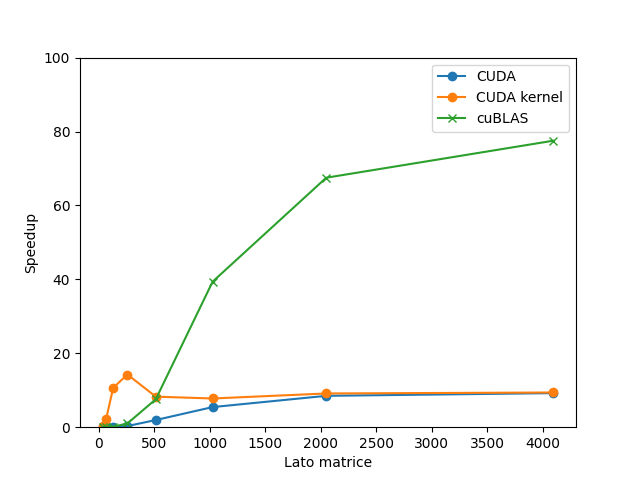
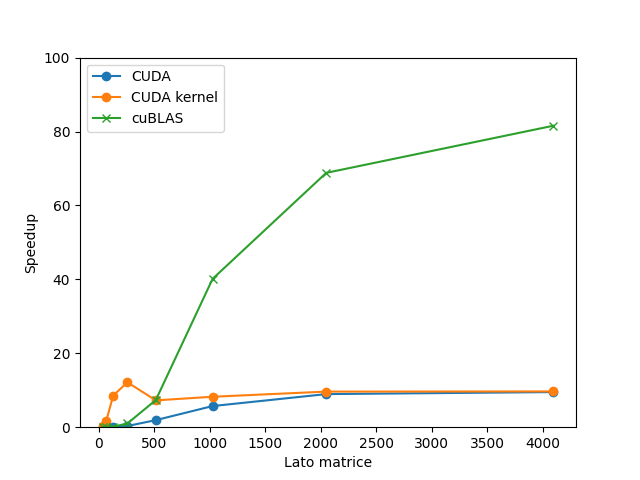
Update docs

diff --git a/docs/report-analysis.tex b/docs/report-analysis.tex
@@ -1,31 +1,44 @@
 \section{Analisi}
 
-\subsection{Script e Configurazione dei Test}
+In questa sezione verranno presentati e analizzati i risultati di benchmark.
 
-Per gestire l'esecuzione di un vasto numero di test con configurazioni eterogenee, è stato implementato un processo automatizzato orchestrato dallo script \texttt{scripts/run.sh}. La sua esecuzione può essere suddivisa nelle seguenti fasi:
+Purtroppo, a causa di problemi tecnici con il cluster in dotazione, non è stato possibile valutare in maniera significativa gli algoritmi. In particolare, la funzione OpenMPI usata per creare la griglia di processi\footnote{\url{https://docs.open-mpi.org/en/v5.0.x/man-openmpi/man3/MPI_Cart_create.3.html}} potrebbe fallire arbitrariamente causando la chiusura forzata dell'eseguibile. Sperimentazioni ausiliarie hanno portato eventualmente sempre allo stesso errore, il che fa presagire possibili difetti nella versione della libreria installata.
+
+È stato deciso di eseguire dei test locali su una singola macchina, ovviamente non indicativi delle prestazioni reali ma utili comunque a ricavare qualche spunto di riflessione.
+
+\subsection{Configurazione dei test}
+
+Per gestire l'esecuzione di un vasto numero di test con configurazioni eterogenee, sono stati implementati dei processi automatizzati tramite script.
+
+\subsubsection{Locale}
+Per eseguire i benchmark in locale, viene usato un semplice script che esegue sequenzialmente diversi test specificati, aggrega i risultati ottenuti e lancia uno script python per generare i grafici.
+La macchina usata per eseguire i benchmark presenta:
+\begin{itemize}
+    \item CPU AMD Ryzen 5 7600;
+    \item GPU NVIDIA GTX 1050Ti;
+    \item 32 GB di RAM.
+\end{itemize}
+
+\subsubsection{Cluster}
+Lanciare un'eseguibile sul cluster richiede maggiore pianificazione in quanto bisogna inviare una richiesta di \textit{job} tramite \textit{Slurm}, un sistema di gestione open source\footnote{\url{https://slurm.schedmd.com/overview.html}}. Lo script creato genera dinamicamente dei file batch a partire da configurazioni salvate in file di testo e richiede che vengano eseguiti. Nello specifico, si articola nelle seguenti fasi:
 
 \begin{enumerate}
-    \item \textbf{Inizializzazione e Pulizia:} La prima azione dello script è la preparazione dell'ambiente di esecuzione. Vengono rimossi i risultati di esecuzioni precedenti eliminando il contenuto delle directory \texttt{logs/ csv/ plots/ profiling/ bin/}, se in caso queste non dovessero esistere verranno create. Questo garantisce che ogni esecuzione parta da uno stato pulito e che i risultati non vengano contaminati da test precedenti.
+    \item \textbf{Inizializzazione} - viene preparato l'ambiente di esecuzione creando eventuali directory necessarie e rimuovendo i risultati di esecuzioni precedenti. Questo garantisce che ogni esecuzione parta da uno stato pulito e che i risultati non vengano contaminati da test precedenti.
 
-    \item \textbf{Compilazione:} Viene compilato il codice sorgente presente nella directory \texttt{src/} usando \texttt{nvcc}. L'eseguibile risultante, \texttt{bin/main.out}, viene così aggiornato all'ultima versione del codice prima dell'avvio dei test.
+    \item \textbf{Iterazione sui file di configurazione} - vengono letti tutti i file csv presenti nella directory \texttt{tests/}, ciascuno dei quali definisce una famiglia di test e specifica i parametri per una singola esecuzione.
 
-    \item \textbf{Iterazione sui File di Configurazione:} Lo script itera su tutti i file con estensione \texttt{.csv} presenti nella directory \texttt{tests/}. Ciascun file definisce una famiglia di test; al suo interno, ogni riga (esclusa l'intestazione) specifica i parametri per una singola esecuzione.
+    \item \textbf{Sottomissione dei job} - per ogni test da eseguire, lo script
+          \begin{enumerate}
+              \item esegue il parsing dei parametri (dimensioni della matrice, numero di processi, ...) estraendoli riga per riga;
+              \item genera dinamicamente uno script di sottomissione Slurm contenente le direttive \texttt{\#SBATCH} necessarie per richiedere le risorse al cluster (nodi, GPU, file di output, ...);
+              \item sottomette lo script creato al gestore di code tramite il comando \texttt{sbatch};
+              \item aggiunge l'id del job a una lista di dipendenze che sarà utilizzata nella fase finale.
+          \end{enumerate}
 
-    \item \textbf{Generazione e Sottomissione dei Job:} Per ogni riga di un file di configurazione, che rappresenta un singolo test, lo script esegue i seguenti passaggi:
-          \begin{itemize}
-              \item \textbf{Parsing dei Parametri:} I valori per \texttt{matrix\_size}, \texttt{n\_proc}, \texttt{n\_gpu}, \texttt{tile\_width}, \texttt{grid\_width} e \texttt{grid\_height} vengono estratti dalla riga corrente.
-              \item \textbf{Creazione dello Script SLURM:} Viene generato dinamicamente uno script di sottomissione SLURM. Questo script contiene le direttive \texttt{\#SBATCH} necessarie per richiedere le risorse al cluster (nodi, task, GPU per task) e definire i file di output e di errore. Il comando di esecuzione principale è incapsulato da \texttt{nsys profile} per la profilazione, e l'eseguibile \texttt{bin/main.out} viene lanciato con i parametri specifici del test.
-              \item \textbf{Sottomissione del Job:} Lo script SLURM appena creato viene sottomesso al gestore di code tramite il comando \texttt{sbatch}. L'ID del job restituito da SLURM viene catturato e memorizzato.
-              \item \textbf{Gestione delle Dipendenze:} L'ID del job viene aggiunto a una lista di dipendenze che sarà utilizzata nella fase finale.
-          \end{itemize}
-
-    \item \textbf{Job di Analisi e Plotting:} Una volta che tutti i job di calcolo sono stati sottomessi, lo script genera un ultimo job SLURM. Questo job ha una dipendenza di tipo \texttt{afterok} da tutti i job sottomessi in precedenza. Ciò significa che verrà eseguito solo dopo che tutti i test di calcolo saranno terminati con successo. Il compito di questo job finale è eseguire lo script Python \texttt{scripts/plots.py}, che si occupa di aggregare i dati dai file \texttt{.csv} generati e di creare i grafici di performance.
+    \item \textbf{Job di analisi e plotting} - genera un ultimo job con una dipendenza di tipo \texttt{afterok} da tutti quelli sottomessi in precedenza, per eseguirlo solo dopo che tutti i test saranno terminati con successo. Il compito di questo job finale è aggregare i dati dei file csv generati ed eseguire uno script python per creare i grafici delle performance.
 \end{enumerate}
 
 \subsection{Analisi delle misurazioni}
-Purtroppo, a causa di problemi tecnici con la versione di OpenMPI presente sul cluster, non è stato possibile valutare in maniera significativa il programma. In particolare, la funzione usata per creare la griglia di processi\footnote{\url{https://docs.open-mpi.org/en/v5.0.x/man-openmpi/man3/MPI_Cart_create.3.html}} potrebbe fallire arbitrariamente causando la chiusura forzata dell'eseguibile. Sperimentazioni ausiliarie hanno portato eventualmente sempre allo stesso errore, il che fa presagire qualche problema in quella versione della libreria.
-
-È stato deciso di eseguire dei test locali su una singola macchina, che ovviamente non saranno indicativi delle prestazioni reali ma utili comunque a ricavare qualche spunto di riflessione.
 Sono stati eseguiti i seguenti test:
 \begin{enumerate}
     \item al crescere del numero di processi e threads, con dimensione fissata
@@ -39,7 +52,7 @@ Sono stati eseguiti i seguenti test:
     \item al crescere del numero di processi, a parità di thread (1024) e dimensione del problema per thread.
 \end{enumerate}
 
-\begin{table}[h]
+\begin{table}[H]
     \centering
     \begin{tabular}{cc}
         \hline
@@ -57,113 +70,105 @@ Sono stati eseguiti i seguenti test:
     \caption{Tempi di esecuzione algoritmo sequenziale}
 \end{table}
 
-\begin{table}[h]
-    \centering
-    \begin{tabular}{cc}
-        \hline
-        \textbf{Matrice}    & \textbf{Tempo (s)} \\ \hline
-        $16   \times 16   $ & 0.000012           \\
-        $32   \times 32   $ & 0.000087           \\
-        $64   \times 64   $ & 0.000573           \\
-        $128  \times 128  $ & 0.004766           \\
-        $256  \times 256  $ & 0.036135           \\
-        $512  \times 512  $ & 0.284944           \\
-        $1024 \times 1024 $ & 2.281789           \\
-        $2048 \times 2048 $ & 18.509902          \\
-        $4096 \times 4096 $ & 151.839314         \\ \hline
-    \end{tabular}
-    \caption{Tempi di esecuzione cuBLAS}
-\end{table}
-
-\begin{table}[h]
+\begin{table}[H]
     \centering
     \begin{tabular}{cccccc}
         \hline
-        \textbf{Matrice}    & \textbf{Processi} & \textbf{Thread} & \textbf{Tempo (s)} & \textbf{Speedup} & \textbf{Efficienza} \\ \hline
-        $16   \times 16   $ & 4                 & 1024            & 0.000012           & 50               & 0.001               \\
-        $32   \times 32   $ & 4                 & 1024            & 0.000012           &                  & 0.001               \\
-        $64   \times 64   $ & 4                 & 1024            & 0.000012           &                  & 0.001               \\
-        $128  \times 128  $ & 4                 & 1024            & 0.000012           &                  & 0.001               \\
-        $256  \times 256  $ & 4                 & 1024            & 0.000012           &                  & 0.001               \\
-        $512  \times 512  $ & 4                 & 1024            & 0.000012           &                  & 0.001               \\
-        $1024 \times 1024 $ & 4                 & 1024            & 0.000012           &                  & 0.001               \\
-        $2048 \times 2048 $ & 4                 & 1024            & 0.000012           &                  & 0.001               \\
-        $4096 \times 4096 $ & 4                 & 1024            & 0.000012           &                  & 0.001               \\ \hline
+        \textbf{Matrice}   & \textbf{Processi} & \textbf{Thread} & \textbf{Tempo (s)} & \textbf{Speedup} & \textbf{Efficienza} \\
+        \hline
+        $32 \times 32$     & 4                 & 1024            & 0.111423           & 0.000646         & 0.000001            \\
+        $64 \times 64$     & 4                 & 1024            & 0.111543           & 0.006562         & 0.000006            \\
+        $128 \times 128$   & 4                 & 1024            & 0.107687           & 0.044731         & 0.000043            \\
+        $256 \times 256$   & 4                 & 1024            & 0.112906           & 0.320620         & 0.000313            \\
+        $512 \times 512$   & 4                 & 1024            & 0.151131           & 1.912400         & 0.001867            \\
+        $1024 \times 1024$ & 4                 & 1024            & 0.403438           & 5.720774         & 0.005586            \\
+        $2048 \times 2048$ & 4                 & 1024            & 2.104707           & 8.955829         & 0.008745            \\
+        $4096 \times 4096$ & 4                 & 1024            & 16.102605          & 9.502196         & 0.009279            \\
+        \hline
     \end{tabular}
     \caption{Metriche test 1a}
 \end{table}
 
-\begin{table}[h]
+\begin{table}[H]
     \centering
     \begin{tabular}{cccccc}
         \hline
-        \textbf{Matrice}   & \textbf{Processi} & \textbf{Thread} & \textbf{Tempo (s)} & \textbf{Speedup} & \textbf{Efficienza} \\ \hline
-        $2048 \times 2048$ & 2                 & 1024            & 0.000012           & 50               & 0.001               \\
-        $2048 \times 2048$ & 4                 & 1024            & 0.000012           &                  & 0.001               \\
-        $2048 \times 2048$ & 8                 & 1024            & 0.000012           &                  & 0.001               \\
-        $2048 \times 2048$ & 16                & 1024            & 0.000012           &                  & 0.001               \\ \hline
+        \textbf{Matrice}   & \textbf{Processi} & \textbf{Thread} & \textbf{Tempo (s)} & \textbf{Speedup} & \textbf{Efficienza} \\
+        \hline
+        $2048 \times 2048$ & 2                 & 1024            & 2.149681           & 8.768461         & 0.008562            \\
+        $2048 \times 2048$ & 4                 & 1024            & 2.112711           & 8.921899         & 0.008712            \\
+        $2048 \times 2048$ & 8                 & 1024            & 2.233489           & 8.439439         & 0.008241            \\
+        $2048 \times 2048$ & 16                & 1024            & 2.400357           & 7.852746         & 0.007668            \\
+        \hline
     \end{tabular}
     \caption{Metriche test 1b}
 \end{table}
 
-\begin{table}[h]
+\begin{table}[H]
     \centering
     \begin{tabular}{cccccc}
         \hline
-        \textbf{Matrice}   & \textbf{Processi} & \textbf{Thread} & \textbf{Tempo (s)} & \textbf{Speedup} & \textbf{Efficienza} \\ \hline
-        $2048 \times 2048$ & 4                 & 256             & 0.000012           & 50               & 0.001               \\
-        $2048 \times 2048$ & 4                 & 1024            & 0.000012           &                  & 0.001               \\
-        $2048 \times 2048$ & 4                 & 4096            & 0.000012           &                  & 0.001               \\
-        $2048 \times 2048$ & 4                 & 16384           & 0.000012           &                  & 0.001               \\ \hline
+        \textbf{Matrice}   & \textbf{Processi} & \textbf{Thread} & \textbf{Tempo (s)} & \textbf{Speedup} & \textbf{Efficienza} \\
+        \hline
+        $2048 \times 2048$ & 4                 & 16              & 86.549383          & 0.217787         & 0.013611            \\
+        $2048 \times 2048$ & 4                 & 64              & 14.889047          & 1.265990         & 0.019781            \\
+        $2048 \times 2048$ & 4                 & 256             & 3.294723           & 5.721086         & 0.022347            \\
+        $2048 \times 2048$ & 4                 & 1024            & 2.115566           & 8.909859         & 0.008701            \\
+        $2048 \times 2048$ & 4                 & 4096            & 0.634481           & 29.708369        & 0.007253            \\
+        $2048 \times 2048$ & 4                 & 16384           & 0.487987           & 38.626840        & 0.002357            \\
+        $2048 \times 2048$ & 4                 & 65536           & 0.457740           & 41.179263        & 0.000628            \\
+
+        \hline
     \end{tabular}
     \caption{Metriche test 1c}
 \end{table}
 
-\begin{table}[h]
+\begin{table}[H]
     \centering
     \begin{tabular}{cccccc}
         \hline
-        \textbf{Matrice}    & \textbf{Processi} & \textbf{Thread} & \textbf{Tempo (s)} & \textbf{Speedup} & \textbf{Efficienza} \\ \hline
-        $1024 \times 1024 $ & 1                 & 1024            & 0.287              & 50               & 0.001               \\
-        $2048 \times 2048 $ & 4                 & 1024            & 2.211              & 50               & 0.001               \\
-        $4096 \times 4096 $ & 16                & 1024            & 16.459             &                  & 0.001               \\ \hline
-        %                     &                   &                    &                  &                     \\ \hline
-        % \textbf{Matrice}    & \textbf{Processi} & \textbf{Tempo (s)} & \textbf{Speedup} & \textbf{Efficienza} \\ \hline
-        % $1024 \times 1024 $ & 1                 & 0.040 s            & 50               & 0.001               \\
-        % $2048 \times 2048 $ & 4                 & 0.278 s            & 50               & 0.001               \\
-        % $4096 \times 4096 $ & 16                & 1.986 s            &                  & 0.001               \\ \hline
+        \textbf{Matrice}   & \textbf{Processi} & \textbf{Thread} & \textbf{Tempo (s)} & \textbf{Speedup} & \textbf{Efficienza} \\
+        \hline
+        $1024 \times 1024$ & 1                 & 1024            & 0.315246           & 7.321196         & 0.007149            \\
+        $2048 \times 2048$ & 4                 & 1024            & 2.124641           & 8.871802         & 0.008663            \\
+        $4096 \times 4096$ & 16                & 1024            & 16.293719          & 9.390741         & 0.009170            \\
+        \hline
     \end{tabular}
     \caption{Metriche test b}
 \end{table}
 
-\begin{table}[h]
+\begin{table}[H]
     \centering
     \begin{tabular}{cccccc}
         \hline
-        \textbf{Matrice}    & \textbf{Processi} & \textbf{Thread} & \textbf{Tempo (s)} & \textbf{Speedup} & \textbf{Efficienza} \\ \hline
-        $64 \times 64 $     & 4                 & 16              & 0.109685           & 50               & 0.001               \\
-        $128 \times 128 $   & 4                 & 64              & 0.114456           & 50               & 0.001               \\
-        $256 \times 256 $   & 4                 & 256             & 0.114456           & 50               & 0.001               \\
-        $512 \times 512 $   & 4                 & 1024            & 0.114456           & 50               & 0.001               \\
-        $1024 \times 1024 $ & 4                 & 4096            & 0.114456           & 50               & 0.001               \\
-        $2048 \times 2048 $ & 4                 & 16384           & 0.111614           &                  & 0.001               \\ \hline
+        \textbf{Matrice}   & \textbf{Processi} & \textbf{Thread} & \textbf{Tempo (s)} & \textbf{Speedup} & \textbf{Efficienza} \\
+        \hline
+        $64 \times 64$     & 4                 & 16              & 0.107755           & 0.006793         & 0.000424            \\
+        $128 \times 128$   & 4                 & 64              & 0.110345           & 0.043653         & 0.000682            \\
+        $256 \times 256$   & 4                 & 256             & 0.113403           & 0.319215         & 0.001246            \\
+        $512 \times 512$   & 4                 & 1024            & 0.144730           & 1.996980         & 0.001950            \\
+        $1024 \times 1024$ & 4                 & 4096            & 0.191247           & 12.068048        & 0.002946            \\
+        $2048 \times 2048$ & 4                 & 16384           & 0.507543           & 37.138520        & 0.002266            \\
+        \hline
     \end{tabular}
     \caption{Metriche test c}
 \end{table}
 
-\begin{table}[h]
+\begin{table}[H]
     \centering
     \begin{tabular}{cccccc}
         \hline
-        \textbf{Matrice}    & \textbf{Processi} & \textbf{Thread} & \textbf{Tempo (s)} & \textbf{Speedup} & \textbf{Efficienza} \\ \hline
-        $1024 \times 1024 $ & 1                 & 1024            & 0.109685           & 50               & 0.001               \\
-        $2048 \times 2048 $ & 4                 & 1024            & 0.114456           & 50               & 0.001               \\
-        $4096 \times 4096 $ & 16                & 1024            & 0.111614           &                  & 0.001               \\ \hline
+        \textbf{Matrice}   & \textbf{Processi} & \textbf{Thread} & \textbf{Tempo (s)} & \textbf{Speedup} & \textbf{Efficienza} \\
+        \hline
+        $1024 \times 1024$ & 1                 & 1024            & 0.311630           & 7.406148         & 0.007232            \\
+        $2048 \times 2048$ & 4                 & 1024            & 2.121485           & 8.885000         & 0.008676            \\
+        $4096 \times 4096$ & 16                & 1024            & 16.317378          & 9.377126         & 0.009157            \\
+        \hline
     \end{tabular}
     \caption{Metriche test d}
 \end{table}
 
-\begin{figure}[h]
+\begin{figure}[ht]
     \centering
     \includegraphics[width=0.7\textwidth]{./imgs/graphs/caso_0.png}
     \includegraphics[width=0.7\textwidth]{./imgs/graphs/caso_0_speedup.png}
@@ -171,7 +176,7 @@ Sono stati eseguiti i seguenti test:
     \caption{Caso 1a}
 \end{figure}
 
-\begin{figure}[h]
+\begin{figure}[ht]
     \centering
     \includegraphics[width=0.7\textwidth]{./imgs/graphs/caso_a1.png}
     \includegraphics[width=0.7\textwidth]{./imgs/graphs/caso_a1_speedup.png}
@@ -179,7 +184,7 @@ Sono stati eseguiti i seguenti test:
     \caption{Caso 1b}
 \end{figure}
 
-\begin{figure}[h]
+\begin{figure}[ht]
     \centering
     \includegraphics[width=0.7\textwidth]{./imgs/graphs/caso_a2.png}
     \includegraphics[width=0.7\textwidth]{./imgs/graphs/caso_a2_speedup.png}
@@ -187,7 +192,7 @@ Sono stati eseguiti i seguenti test:
     \caption{Caso 1c}
 \end{figure}
 
-\begin{figure}[h]
+\begin{figure}[ht]
     \centering
     \includegraphics[width=0.7\textwidth]{./imgs/graphs/caso_b.png}
     \includegraphics[width=0.7\textwidth]{./imgs/graphs/caso_b_speedup.png}
@@ -195,7 +200,7 @@ Sono stati eseguiti i seguenti test:
     \caption{Caso 2}
 \end{figure}
 
-\begin{figure}[h]
+\begin{figure}[ht]
     \centering
     \includegraphics[width=0.7\textwidth]{./imgs/graphs/caso_c.png}
     \includegraphics[width=0.7\textwidth]{./imgs/graphs/caso_c_speedup.png}
@@ -203,7 +208,7 @@ Sono stati eseguiti i seguenti test:
     \caption{Caso 3}
 \end{figure}
 
-\begin{figure}[h]
+\begin{figure}[ht]
     \centering
     \includegraphics[width=0.7\textwidth]{./imgs/graphs/caso_d.png}
     \includegraphics[width=0.7\textwidth]{./imgs/graphs/caso_d_speedup.png}
@@ -211,16 +216,16 @@ Sono stati eseguiti i seguenti test:
     \caption{Caso 4}
 \end{figure}
 
-Non è possibile trarre conclusioni certe date le limitazioni del caso ma un risultato ovvio è il miglioramento dei tempi di esecuzione grazie al parallelismo offerto dalle GPU.
-In caso di un singolo nodo a parità di dimensioni della matrice, conviene aumentare il numero di thread usati dalla GPU piuttosto che distribuire il carico aumentando i processi. Ciò probabilmente è dovuto al fatto che i processi non riescono a utilizzare tutti contemporaneamente la GPU causando delle attese.
+Non è possibile trarre conclusioni certe date le limitazioni del caso, ma è possibile notare come non convenga usare le GPU per per matrici di piccole dimensioni\footnote{$\approx 512 \times 512$} dato che l'overhead causa tempi di esecuzione maggiori rispetto a quelli dell'algoritmo sequenziale.
 
-Un risultato leggermente preoccupante è l'efficienza praticamente nulla ottenuta dai vari test.
+Dai tempi di esecuzione e dallo speedup ottenuto nei vari casi, conviene aumentare il numero di thread piuttosto che distribuire il carico aumentando i processi. Ciò probabilmente è dovuto al fatto che i processi non riescono a utilizzare tutti contemporaneamente la GPU causando delle attese.
 
-L'implementazione cuBLAS risulta, come prevedibile, molto ottimizzata e migliore della semplice implementazione presa in questione.
+In questo caso, i trasferimenti di memoria non rappresentano più di tanto un collo di bottiglia ma l'utilizzo concorrente della stessa GPU da parte di più processi causa ovviamente dei tempi di attesa.
+
+Un risultato leggermente preoccupante è l'efficienza praticamente nulla ottenuta dai vari test. Ciò può risultare sia dalle condizioni dei benchmark effettuati che dal numero estremamente grande di thread utilizzati.
 
 \subsection{NVIDIA Nsight Compute}
 
-NVIDIA Nsight Compute è un profiler per CUDA che fornisce metriche dettagliate delle prestazioni e debug delle API tramite interfaccia utente e strumenti da riga di comando.
-% TODO: che altro?
+Nsight Compute è uno strumento di profilazione delle prestazioni delle GPU sviluppato da NVIDIA, pensato specificamente per analizzare ed ottimizzare i kernel CUDA. Fornisce un'analisi dettagliata del comportamento del codice sulla GPU, consentendo di identificare colli di bottiglia come utilizzo inefficiente della memoria (global, shared, cache), occupancy bassa dei multiprocessori, warp divergence, stalli nelle pipeline di esecuzione. È altamente configurabile, supporta analisi interattive via GUI o in modalità batch da riga di comando, e consente di confrontare facilmente più esecuzioni.
 
 Purtroppo, a causa dei problemi tecnici riportati precedentemente, non è stato possibile valutare le metriche fornite da queste applicazioni.

diff --git a/docs/presentation-analysis.tex b/docs/presentation-analysis.tex
@@ -14,7 +14,11 @@
               \begin{itemize}
                   \item Non rappresentativo delle vere performance
                   \item Nessuna analisi da Nsight Compute
-                  \item NVIDIA RTX 4060 % TODO: spec
+                        %   \item NVIDIA RTX 4060 % TODO: spec
+
+                  \item CPU AMD Ryzen 5 7600
+                  \item GPU NVIDIA GTX 1050Ti
+                  \item 32 GB di RAM
               \end{itemize}
     \end{itemize}
 \end{frame}
@@ -161,6 +165,18 @@
     \begin{itemize}
         \item Non vantaggioso per matrici piccole ($\approx 512 \times 512$)
         \item Aumentare thread più vantaggioso dell'aumentare i processi
-        \item Overhead di comunicazione abbatte l'efficienza
+              \begin{itemize}
+                  \item Tempi di esecuzione minori
+                  \item Speedup maggiore
+              \end{itemize}
+        \item Trasferimento di memoria non tanto un problema...
+              \begin{itemize}
+                  \item ...ma attesa della stessa GPU da più processi sì
+              \end{itemize}
+        \item Efficienza quasi nulla
+              \begin{itemize}
+                  \item Limitazioni della configurazione usata
+                  \item Altissimo numero di thread
+              \end{itemize}
     \end{itemize}
 \end{frame}

diff --git a/scripts/plots.py b/scripts/plots.py
@@ -18,6 +18,11 @@ column_names = [
     "time_cuda",
     "time_cuda_gpu",
     "time_cublas",
+    "speedup",
+    "speedup_kernel",
+    "speedup_cublas",
+    "efficiency",
+    "efficiency_kernel",
 ]
 
 
@@ -175,7 +180,7 @@ def plot(
     show_iterative=True,
 ) -> None:
     results_sequential = get_sequential_times()
-    results = pd.read_csv(input_file, header=None, names=column_names)
+    results = pd.read_csv(input_file)
 
     x_values = results[x_axis_param]
     total_threads = results["n_proc"] * results["total_threads"]
